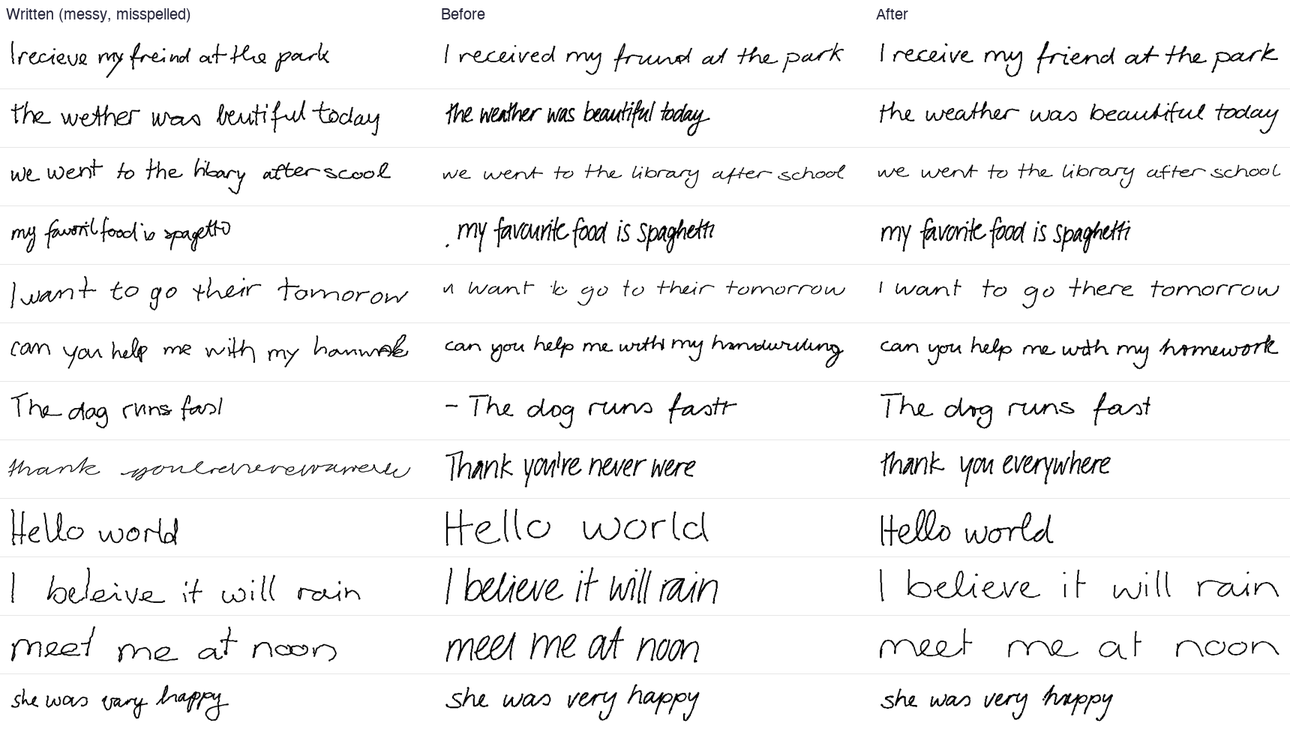
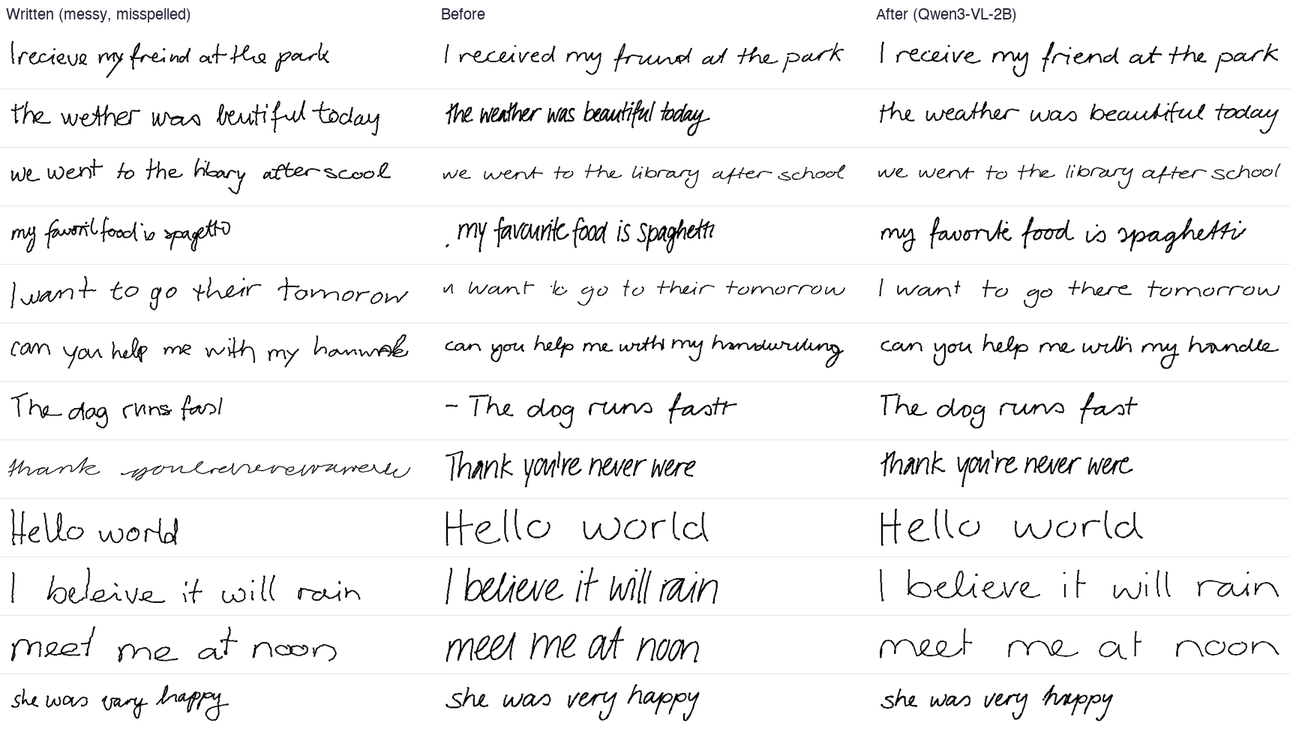
Read with Qwen3-VL-2B again, with the OCR hint first
2B is lighter and is the model the iPhone/iPad app runs. macOS Vision's
hint used to come after the instructions, and the model echoed it back:
reads took 2.3 s instead of 1 s. Put first, it also reads slightly
better. 2B now matches 4B (19 of 24 lines each), and the pipeline gets
the intended sentence on 10/12 eval and 9/12 browser lines at 1.8 s a
line (4B: 11/12, 8/12, 2.7 s).

diff --git a/server/recognize.py b/server/recognize.py
@@ -1,7 +1,7 @@
 """Reading the handwriting, and working out what the writer meant.
 
 Readers (pick with --reader):
-  vlm    Qwen3-VL (4B with 16 GB+ of RAM, else 2B; HWFIX_VLM overrides). One pass reads the ink
+  vlm    Qwen3-VL (default 2B; HWFIX_VLM overrides). One pass reads the ink
          literally AND infers the intended, correctly spelled sentence, using
          both the pixels and language context. Runs on-device (Apple Silicon
          GPU via MPS, or CPU).
@@ -26,10 +26,11 @@ PROMPT = (
     "your/you're) from context. Keep the same words in the same order; do not add or remove words>"
 )
 
-# A literal OCR reading (macOS Vision) as a second opinion. On messy lines drawn
-# in the browser it took Qwen3-VL-2B from 14 to 18 of 24 intended sentences
-# right; 4B was unchanged at 19 (tests/make_evalset.py, raw and browser ink).
-OCR_HINT = "\nA separate OCR engine read the line as: \"{ocr}\". It is often wrong about single letters, so trust the image."
+# A literal OCR reading (macOS Vision) as a second opinion, put BEFORE the
+# instructions: after them, the model echoed it back and took 2.3 s instead of
+# 1 s. It took Qwen3-VL-2B from 14 to 19 of the 24 eval lines (raw and browser
+# ink from tests/make_evalset.py); 4B was unchanged at 19.
+OCR_HINT = "An OCR engine read this line as \"{ocr}\", but it is often wrong about single letters, so trust the image.\n"
 
 LITERAL_PROMPT = "Transcribe this handwriting exactly, letter by letter. Reply with only the text."
 
@@ -61,16 +62,10 @@ def _parse(reply):
 
 
 def default_vlm():
-    """Qwen3-VL-4B reads messy handwriting better than 2B (the intended sentence
-    on 11 vs 7 of the 12 tests/make_evalset.py lines, 8 vs 7 when drawn in the
-    browser) but needs ~9 GB, so it is the default only with 16 GB+ of RAM."""
-    if os.environ.get("HWFIX_VLM"):
-        return os.environ["HWFIX_VLM"]
-    try:
-        ram = os.sysconf("SC_PAGE_SIZE") * os.sysconf("SC_PHYS_PAGES")
-    except (AttributeError, ValueError, OSError):
-        ram = 0
-    return "Qwen/Qwen3-VL-4B-Instruct" if ram >= 15.5e9 else "Qwen/Qwen3-VL-2B-Instruct"
+    """Qwen3-VL-2B: the same model the iPhone/iPad app runs. With macOS Vision's
+    second opinion it reads as well as 4B (19 of the 24 eval lines each) at
+    half the size and time. HWFIX_VLM=Qwen/Qwen3-VL-4B-Instruct for 4B."""
+    return os.environ.get("HWFIX_VLM") or "Qwen/Qwen3-VL-2B-Instruct"
 
 
 class VLMReader:
@@ -116,7 +111,7 @@ class VLMReader:
 
     def read(self, image):
         ocr = self.ocr(image) if self.ocr else ""
-        prompt = PROMPT + (OCR_HINT.format(ocr=ocr) if ocr else "")
+        prompt = (OCR_HINT.format(ocr=ocr) if ocr else "") + PROMPT
         return _parse(self._generate([{"type": "image", "image": image}, {"type": "text", "text": prompt}]))
 
     def read_literal(self, image):

diff --git a/README.md b/README.md
@@ -26,9 +26,8 @@ from scratch. If the AI packages can't be installed, it still starts, in
 Tidy-only mode.
 
 The first run sets up a Python environment, installs PyTorch and Transformers
-(about 1 GB), then downloads the models: the handwriting reader (Qwen3-VL-4B,
-about 9 GB, on Macs with 16 GB of RAM or more; Qwen3-VL-2B, about 4.5 GB,
-otherwise) and the 43 MB handwriting synthesiser. The Terminal and the status in
+(about 1 GB), then downloads the models: the handwriting reader (Qwen3-VL-2B,
+about 4.5 GB) and the 43 MB handwriting synthesiser. The Terminal and the status in
 the bottom-right corner of the page show the download's progress; the page
 works in Tidy mode meanwhile. After that, `./run.sh` opens the demo
 in your browser within a few seconds, normally at `http://127.0.0.1:8765`. If
@@ -48,7 +47,7 @@ Pencil pressure is used for line width, and palm rejection is on.
 | **Tidy** | Keeps your exact letters. It straightens the baseline and evens out letter size, slant and word spacing. This is instant and needs no AI model |
 | **Off** | Plain ink, smoothed live by the Ink Stroke Modeler |
 | **Neatness** | How strongly the ink is regularised (the synthesiser's sampling bias, or how hard Tidy corrects) |
-| **Style** | *My handwriting* copies your style, and switches to a clean style (Style 10) for any line where the copy reads worse; the card under the page says so. *Style 1-13* are other writers from the training data |
+| **Style** | *My handwriting* copies your style, and switches to *Tall narrow print* for any line where the copy reads worse; the card under the page says so. The 13 named styles, from *Clean print* to *Flowing cursive*, are other writers from the training data |
 | **Fix spelling** | Off: Magic rewrites exactly what you wrote, just neater |
 | **👁 / hold Space** | Shows what you originally wrote |
 | **↶ / ⌘Z** | Undoes the last stroke or the last fix |
@@ -66,7 +65,7 @@ Pencil pressure is used for line width, and palm rejection is on.
  ② Line + word segmentation, Tidy        pure geometry, instant
         │                                (Tidy mode stops here and morphs the ink)
         ▼
- ③ Reader: Qwen3-VL-4B (local)           one pass returns (with macOS Vision's literal
+ ③ Reader: Qwen3-VL-2B (local)           one pass returns (with macOS Vision's literal
         │                                reading as a second opinion)
         │                                  WRITTEN: "I recieve my freind at the park"
         │                                  MEANT:   "I receive my friend at the park"
@@ -123,8 +122,8 @@ Pencil pressure is used for line width, and palm rejection is on.
 | **Graves RNN synthesis** | ✅ Used. It's tiny (3.6M parameters, 14 MB) and fast on CPU, supports style priming, and runs easily in Core ML |
 | **DiffInk** (ICLR 2026) and other diffusion ink models | Better style fidelity in the papers, but trained on Chinese only. Worth watching |
 | **TrOCR** | Older OCR model. It has tokenizer breakage on current Transformers, and a VLM beats it on messy lines |
-| **Qwen3-VL-2B / 4B** | ✅ 4B is the default with 16 GB+ of RAM, 2B otherwise. Set `HWFIX_VLM=Qwen/Qwen3-VL-2B-Instruct` (or 4B) to choose |
-| **macOS Vision** (`VNRecognizeTextRequest`) | ✅ Proofreads the rewrites and gives the VLM a second opinion (it lifted 2B from 14 to 18 of 24 lines). `--reader apple` uses it as the reader, with the VLM fixing the text: fastest (0.7 s a line) but less accurate (15-17/24) |
+| **Qwen3-VL-2B / 4B** | ✅ 2B is the default: with macOS Vision's second opinion it reads as well as 4B (19 of 24 lines each) at half the size and time. `HWFIX_VLM=Qwen/Qwen3-VL-4B-Instruct` for 4B. The iPhone/iPad app runs the same 2B model (4-bit MLX, 1.8 GB), which reads just as well (18-19/24) |
+| **macOS Vision** (`VNRecognizeTextRequest`) | ✅ Proofreads the rewrites and gives the VLM a second opinion (it lifted 2B from 14 to 19 of 24 lines). `--reader apple` uses it as the reader, with the VLM fixing the text: fastest (0.7 s a line) but less accurate (15-17/24) |
 
 ### Measured results on an M5 MacBook Pro (32 GB)
 
@@ -136,16 +135,18 @@ to read.
 
 | | original version | now |
 |---|---|---|
-| Reader got the intended sentence (eval ink / browser ink) | 7/12 / 7/12 | **11/12 / 8/12** |
-| Rewrite reads back exactly as intended (eval / browser) | 54% / 58% | **92% / 67%** |
-| Lines kept in the writer's own style (eval ink) | 62% | **83%** |
-| Time per line (read + write + proofread) | 2.0 s | 2.7 s |
+| Reader got the intended sentence (eval ink / browser ink) | 7/12 / 7/12 | **10/12 / 9/12** |
+| Rewrite reads back exactly as intended (eval / browser) | 54% / 58% | **83% / 75%** |
+| Lines kept in the writer's own style (eval ink) | 62% | **88%** |
+| Time per line (read + write + proofread) | 2.0 s | 1.8 s |
+
+Both use Qwen3-VL-2B. (Qwen3-VL-4B got 11/12 and 8/12, at 2.7 s a line.)
 
 ![before and after on a Mac](docs/mac-eval-before-after.png)
 
 The remaining misses are the reader's: a near-illegible scribble ("thank
-youreverywhere"), and on the browser ink "homwork" (drawn as "hanwak") read as
-"hamster", "freind" as "fries". Loading takes about 10 s from the cache; Tidy
+youreverywhere"), "homwork" (drawn as "hanwak") read as "handle", and
+"favoril food" as "fruit food". Loading takes about 10 s from the cache; Tidy
 mode is instant.
 
 Benchmarks and test tooling are in `tests/`: `make_evalset.py`,
@@ -165,8 +166,8 @@ node tests/test_tidy.mjs
 * The synthesiser still sometimes wobbles on a letter. The best-of-3 selection
   and the self-check reduce this, but don't remove it.
 * Reading is the weakest link. The reader occasionally "fixes" a word into the
-  wrong real word ("hamster" for a scrawled "homework"). 4B does this less than
-  2B; in the real app, Gemma 3 4B (already bundled) could do this step.
+  wrong real word ("handle" for a scrawled "homework"). In the real app, Gemma 3
+  4B (already bundled) could do the MEANT step.
 * *My handwriting* faithfully copies how you shape letters, so a loopy "it will"
   stays loopy as long as it still reads correctly.
 * Drawings and diagrams aren't detected. If the reader can't find any letters,

diff --git a/docs/HANDOFF.md b/docs/HANDOFF.md
@@ -113,6 +113,13 @@ line-buffered. Also, huggingface_hub 1.x keeps finished blobs in a shared
   per letter / 1.25.
 - `--reader apple` works: 0.7 s a line, 15-17/24, below 4B's 19/24.
 
+**Later the same day:** the reader went back to Qwen3-VL-2B (lighter, and the
+model the iPhone/iPad app runs). Moving macOS Vision's hint BEFORE the
+instructions stopped the model echoing it (reads went from 2.3 s to 1 s), and
+2B now matches 4B: 10/12 and 9/12 intended sentences, 1.8 s a line. The 13
+styles have names ("Clean print" ... "Flowing cursive") instead of numbers.
+The iOS app is a separate project, `~/Desktop/HandwritingMagic-iOS`.
+
 **Still open**
 - Reading is the weak link on very messy words ("hanwak" -> "hamster").
   Candidates: Gemma 3 4B for the MEANT step (as in the iPad app), or asking the
